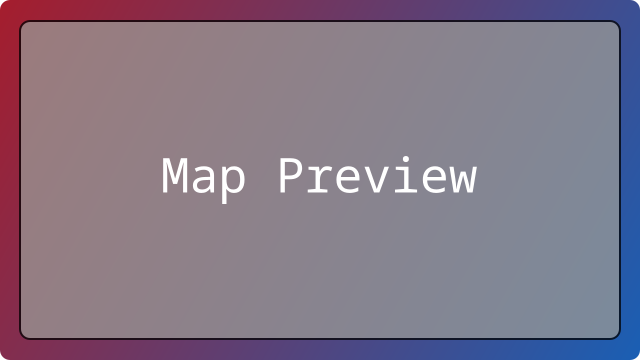
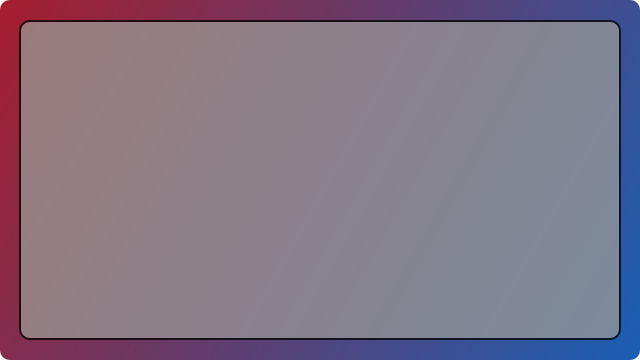
Added initial support for extracting map preview images from game level mixes that include a screenshot or overhead map

Changed region(s): [[0.4375, 0.4278, 0.75, 0.55], [0.25, 0.4278, 0.4062, 0.5806]]

diff --git a/lib/states/interface.rb b/lib/states/interface.rb
@@ -165,9 +165,33 @@ module W3DHubLauncher
 
         @server_details_container.clear do
           tagline server.name, width: 1.0, text_wrap: :none, tip: server.name
-          image safe_get_image("#{ROOT_PATH}/media/default_map_preview.png"), width: 1.0, aspect_ratio: 16 / 9.0, tip: server.current_map, margin_bottom: PADDING
+          map_image_container = stack(width: 1.0, height: (@server_details_container.content_width / 640.0) * 360, background_image: safe_get_image(server.map_preview_image_path, fallback_path: "#{ROOT_PATH}/media/default_map_preview.png")) do
+            caption(
+              server.current_map,
+              text_border: false,
+              text_border_size: 1,
+              text_border_color: Gosu::Color::RED,
+              text_shadow: false,
+              width: 1.0,
+              height: 1.0,
+              padding_bottom: PADDING,
+              text_align: :center,
+              text_v_align: :bottom,
+              tip: server.current_map
+            )
+          end
+          unless File.exist?(server.map_preview_image_path)
+            Worker::Api.server_map_image(server) do |result, status|
+              # If the requested image is still the needed image?
+              next unless @server_details_container.children.include?(map_image_container)
+              next unless result.okay?
 
-          flow(width: 1.0) do
+              post_process_map_preview_image(result.data["image_path"])
+              map_image_container.background_image = safe_get_image(result.data["image_path"])
+            end
+          end
+
+          flow(width: 1.0, margin_top: PADDING) do
             button "JOIN SERVER", **CTA_BUTTON_THEME, width: 1.0, enabled: !application.nil?, tip: application.nil? ? "Application not installed" : "" do
               ApplicationHelper.join_server(application, server)
             end
@@ -301,6 +325,34 @@ module W3DHubLauncher
             end
           end
         end
+      end
+
+      # Get them rounded corners!
+      def post_process_map_preview_image(path)
+        image = Gosu::Image.new(path)
+
+        target_width = 640
+        target_height= 360
+
+        nine_slice = CyberarmEngine::BackgroundNineSlice.new(
+          image_path: NINE_SLICE_ROUNDED,
+          mode: :stretch,
+          width: target_width,
+          height: target_height,
+          left: NINE_SLICE_EDGE,
+          right: NINE_SLICE_EDGE,
+          top: NINE_SLICE_EDGE,
+          bottom: NINE_SLICE_EDGE,
+          render_mode: :multiply
+        )
+
+        composite = Gosu.render(target_width, target_height) do
+          image_scale = [target_width / image.width.to_f, target_height / image.height.to_f].max
+          image.draw_rot(target_width / 2, target_height / 2, 0, 0, 0.5, 0.5, image_scale, image_scale)
+          nine_slice.draw
+        end
+
+        composite.save(path)
       end
 
       def button_up(id)

diff --git a/lib/worker.rb b/lib/worker.rb
@@ -301,6 +301,66 @@ module W3DHubLauncher
       deliver_response(result, query)
     end
 
+    def server_map_image(query)
+      result = CyberarmEngine::Result.new
+
+      # TODO: Ideally battleview would host readily accessible map previews
+      server = @game_servers.find { |s| s.address == query.data["server"]["address"] && s.port == query.data["server"]["port"] }
+      return deliver_response(result, query) unless server
+
+      # is application installed to source data from?
+      application = @settings.application_installed?(server.game, server.channel)
+      return deliver_response(result, query) unless application
+
+      save_path = server.map_preview_image_path
+      if File.exist?(save_path)
+        result.data = { image_path: save_path }
+
+        return deliver_response(result, query)
+      end
+
+      map_mix = Dir.glob("#{application.installation_path}/**/#{query.data["server"]["map"]}")&.first
+      return deliver_response(result, query) unless map_mix
+
+      mix = W3DHubLauncher::WWMix.new(path: map_mix)
+      return deliver_response(result, query) unless mix.load
+
+      entry = nil
+      canvas = nil
+
+      entry = mix.entries.find { |e| e.name.match?(/_map_preview\.png/i) }
+      entry ||= mix.entries.find { |e| e.name.match?(/_map_preview\.dds/i) }
+      entry ||= mix.entries.find { |e| e.name.match?(/screenshot\.png/i) }
+      entry ||= mix.entries.find { |e| e.name.match?(/screenshot\.dds/i) }
+      entry ||= mix.entries.find { |e| e.name.match?(/_map\.png/i) }
+      entry ||= mix.entries.find { |e| e.name.match?(/_map\.dds/i) }
+
+      return deliver_response(result, query) unless entry
+      return deliver_response(result, query) unless entry.read
+
+      if entry.name.match?(/\.dds/i)
+        begin
+          dds = W3DHubLauncher::DDS.new(io: StringIO.new(entry.blob))
+          image_data = dds.images.first
+
+          canvas = ChunkyPNG::Canvas.from_rgba_stream(image_data.width, image_data.height, image_data.data)
+          canvas.save(save_path)
+        rescue StandardError => e
+          result.error = e
+
+          return deliver_response(result, query)
+        end
+
+      elsif entry.name.match?(/\.png/i)
+        # canvas = ChunkyPNG::Canvas.from_blob(entry.blob)
+        File.binwrite(save_path, entry.blob)
+      end
+
+      result.data = { image_path: save_path }
+
+      deliver_response(result, query)
+    end
+
     def dns_resolution(query)
       result = CyberarmEngine::Result.new
 

diff --git a/lib/gui_ext.rb b/lib/gui_ext.rb
@@ -3,7 +3,7 @@ module W3DHubLauncher
     BLACK_IMAGE = Gosu.render(64, 64, retro: true) { Gosu.draw_rect(0, 0, 32, 32, Gosu::Color::BLACK) }
     WHITE_IMAGE = Gosu.render(64, 64, retro: true) { Gosu.draw_rect(0, 0, 32, 32, Gosu::Color::WHITE) }
 
-    def safe_get_image(path, retro: false)
+    def safe_get_image(path, fallback_path: "#{ROOT_PATH}/media/default.png", retro: false)
       raise RuntimeError, "Images may only be loaded from the main thread!" unless Thread.current == Thread.main
 
       begin
@@ -12,8 +12,11 @@ module W3DHubLauncher
         pp e
       end
 
-      path = "#{ROOT_PATH}/media/default.png"
-      return get_image(path, retro: retro) if File.exist?(path)
+      begin
+        return get_image(fallback_path, retro: retro) if File.exist?(fallback_path)
+      rescue RuntimeError => e
+        pp e
+      end
 
       WHITE_IMAGE
     end

diff --git a/lib/dialogs/about.rb b/lib/dialogs/about.rb
@@ -47,8 +47,10 @@ module W3DHubLauncher
           tagline item.name, margin_left: PADDING
         end
         para item.description, margin_left: LARGE_PADDING
-        link item.license, tip: item.license_url, margin_left: PADDING + LARGE_PADDING unless item.license.empty? do
-          SDL.OpenURL(item.license_url)
+        unless item.license.empty?
+          link format("%s license", item.license), tip: item.license_url, margin_left: PADDING + LARGE_PADDING do
+            SDL.OpenURL(item.license_url)
+          end
         end
       end
     end

diff --git a/lib/worker/api/settings.rb b/lib/worker/api/settings.rb
@@ -35,7 +35,10 @@ module W3DHubLauncher
         end
 
         def application_installed?(application, channel)
-          applications.find { |app| app.id == application&.id && app.channel == channel&.id }
+          app_id = application.is_a?(String) ? application : application.id
+          channel_id = channel.is_a?(String) ? channel : channel.id
+
+          applications.find { |app| app.id == app_id && app.channel == channel_id }
         end
 
         # User explictly set options

diff --git a/lib/worker/api.rb b/lib/worker/api.rb
@@ -16,6 +16,10 @@ module W3DHubLauncher
         Worker::Request.new(:ico_to_png, { ico_path: ico_path, png_path: png_path }, &block)
       end
 
+      def self.server_map_image(server, &block)
+        Worker::Request.new(:server_map_image, { server: { address: server.address, port: server.port, map: server.current_map } }, &block)
+      end
+
       def self.dns_resolution(&block)
         Worker::Request.new(:dns_resolution, "", &block)
       end

diff --git a/lib/worker/api/game_server.rb b/lib/worker/api/game_server.rb
@@ -89,6 +89,10 @@ module W3DHubLauncher
             0xff_3d3846
           end
         end
+
+        def map_preview_image_path
+          format("%s/map_preview_%s.png", W3DHubLauncher::CACHE_PATH, Digest::SHA256.hexdigest("#{@game}_#{@channel}_#{@current_map}"))
+        end
       end
 
       class Team

diff --git a/w3d_hub_linux_launcher.rb b/w3d_hub_linux_launcher.rb
@@ -47,6 +47,7 @@ require_relative "lib/window"
 require_relative "lib/application_helper"
 
 require_relative "lib/ico"
+require_relative "lib/dds"
 require_relative "lib/ww_mix"
 
 require_relative "lib/worker"
